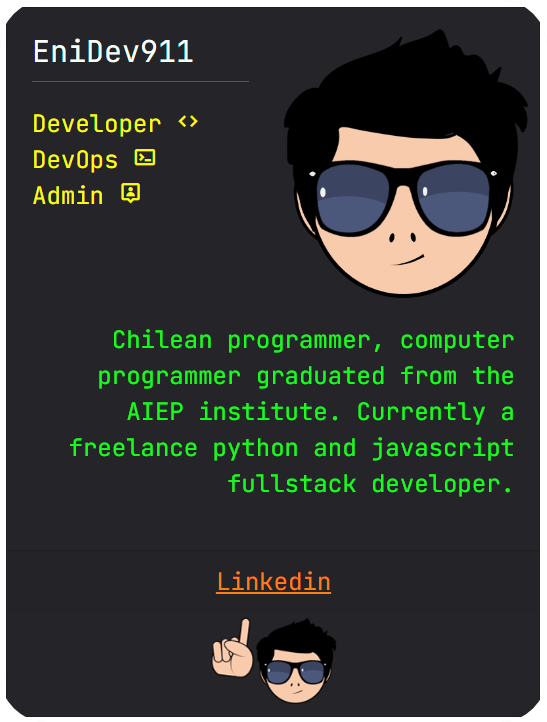
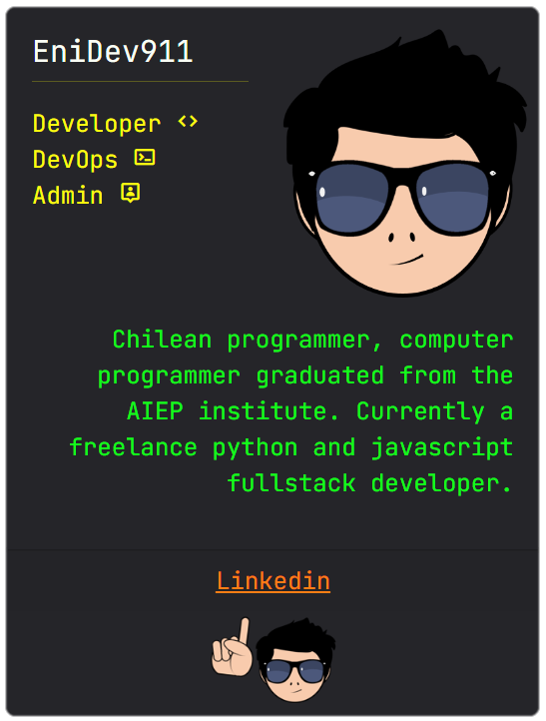
up

Changed region(s): [[0.0, 0.0, 0.9963, 1.0]]

diff --git a/index.html b/index.html
@@ -244,7 +244,7 @@
           </div>
         </div>
         <div class="col-12 col-sm-10 col-md-4 col-lg-6 mx-auto my-auto">
-          <div class="card border border-1 border-secondary">
+          <div class="card border-0">
             <!-- Carrousel -->
             <div id="rootCarousel2" class="carousel slide carousel-fade" data-bs-ride="carousel">
               <div class="carousel-inner">
@@ -316,6 +316,28 @@
                   </div>
                   <img src="./src/public/images/png/electric-store.png" alt="Electric Store" title="Electric Store"
                     class="d-block w-100">
+                </div>
+                <!-- Four item -->
+                <div class="carousel-item bg-secondary border border-1 border-warning rounded">
+                  <div class="options bg-secondary bg-gradient rounded-top py-2 text-center">
+                    <h2 class="h5 text-light">Desafío 4: Sass Card bootstrap</h2>
+                    <a href="src/chanllenges/module-2/4-sass/bs-card-sass/index.html" target="_blank"
+                      class="btn btn-light btn-outline-dark">Ver demo <svg xmlns="http://www.w3.org/2000/svg" width="16"
+                        height="16" fill="currentColor" class="bi bi-eye" viewBox="0 0 16 16">
+                        <path
+                          d="M16 8s-3-5.5-8-5.5S0 8 0 8s3 5.5 8 5.5S16 8 16 8zM1.173 8a13.133 13.133 0 0 1 1.66-2.043C4.12 4.668 5.88 3.5 8 3.5c2.12 0 3.879 1.168 5.168 2.457A13.133 13.133 0 0 1 14.828 8c-.058.087-.122.183-.195.288-.335.48-.83 1.12-1.465 1.755C11.879 11.332 10.119 12.5 8 12.5c-2.12 0-3.879-1.168-5.168-2.457A13.134 13.134 0 0 1 1.172 8z" />
+                        <path
+                          d="M8 5.5a2.5 2.5 0 1 0 0 5 2.5 2.5 0 0 0 0-5zM4.5 8a3.5 3.5 0 1 1 7 0 3.5 3.5 0 0 1-7 0z" />
+                      </svg></a>
+                    <a href="https://github.com/EniDev911/fullstackjsg33/tree/main/src/chanllenges/module-2/4-sass/bs-card-sass"
+                      target="_blank" class="btn btn-light btn-outline-dark">Ver código <svg
+                        xmlns="http://www.w3.org/2000/svg" width="16" height="16" fill="currentColor"
+                        class="bi bi-code-slash" viewBox="0 0 16 16">
+                        <path zaO¡
+                          d="M10.478 1.647a.5.5 0 1 0-.956-.294l-4 13a.5.5 0 0 0 .956.294l4-13zM4.854 4.146a.5.5 0 0 1 0 .708L1.707 8l3.147 3.146a.5.5 0 0 1-.708.708l-3.5-3.5a.5.5 0 0 1 0-.708l3.5-3.5a.5.5 0 0 1 .708 0zm6.292 0a.5.5 0 0 0 0 .708L14.293 8l-3.147 3.146a.5.5 0 0 0 .708.708l3.5-3.5a.5.5 0 0 0 0-.708l-3.5-3.5a.5.5 0 0 0-.708 0z" />
+                      </svg></a>
+                  </div>
+                  <img src="./src/public/images/png/sass-challenge-a.png" alt="Sass challenge" class="d-block w-100">
                 </div>
               </div>
             </div>

diff --git a/src/exercises/pdf-preview/index.html b/src/exercises/pdf-preview/index.html
@@ -1,0 +1,121 @@
+<!DOCTYPE html>
+<html lang="en">
+
+<head prefix="og: https://ogp.me/ns#">
+  <meta charset="UTF-8">
+  <meta http-equiv="X-UA-Compatible" content="IE=edge">
+  <meta name="viewport" content="width=device-width, initial-scale=1.0">
+  <title>PDF PREVIEW</title>
+</head>
+<style>
+  body {
+    font-family: sans-serif;
+    background: #ccc;
+    width: 100%;
+    min-height: 100vh;
+    display: flex;
+    justify-content: center;
+    align-items: center;
+    padding: 2% 0;
+  }
+
+  .container {
+
+    height: auto;
+    width: 60%;
+    background: #fff;
+    display: flex;
+    flex-direction: column;
+    justify-content: center;
+    align-items: center;
+    border-radius: 10px;
+    text-align: center;
+    border: 4px dotted #ccc;
+    box-shadow: 4px 8px 12px #0000003b;
+
+  }
+
+  .border {
+    border: 1px solid salmon;
+
+  }
+
+  embed {
+    margin-top: 3%;
+    border-radius: 10px;
+  }
+
+  h1 {
+    font-family: 'Century gothic';
+    font-style: italic;
+    font-size: 2.5rem;
+    text-decoration: overline rgb(129, 137, 255);
+  }
+
+  .file-select {
+    position: relative;
+    width: 40%;
+    margin: auto;
+    background-color: #5678EF;
+    transition: transform .4s ease-in-out;
+    cursor: pointer;
+    border-radius: 3px;
+    box-shadow: 4px 8px 12px #0000003b;
+  }
+
+  .file-select:hover {
+    transform: scale(1.09);
+    background-color: #0024a6;
+  }
+
+  .file-select::before {
+    color: white;
+    display: flex;
+    justify-content: center;
+    align-items: center;
+    content: 'Seleccionar';
+    font-style: italic;
+    position: absolute;
+    left: 0;
+    right: 0;
+    top: 0;
+    bottom: 0;
+
+  }
+
+
+  input[type="file"] {
+    opacity: 0;
+    height: 32px;
+    width: 100%;
+    border: none;
+    cursor: pointer;
+
+  }
+</style>
+
+<body>
+
+  <div class="container">
+    <h1>VISUALIADOR DE PDF</h1>
+    <form>
+      <div class="file-select" id="file1">
+        <input type="file" name="pdfFile" id="pdfFile" aria-label="file" required>
+      </div>
+      <embed type="application/pdf" id="pdfPreview" width="500" height="500">
+    </form>
+  </div>
+
+  <script>
+    document.querySelector("#pdfFile").addEventListener("change", () => {
+      let pdfFile = document.querySelector("#pdfFile").files[0];
+      // let urlPdfFile = URL.createObjectURL(pdfFile) + "#toolbar=0";
+      let urlPdfFile = URL.createObjectURL(pdfFile);
+      pdfPreview = document.querySelector("#pdfPreview");
+      pdfPreview.setAttribute('src', urlPdfFile);
+      pdfPreview.classList.add('border');
+    })
+  </script>
+</body>
+
+</html>
